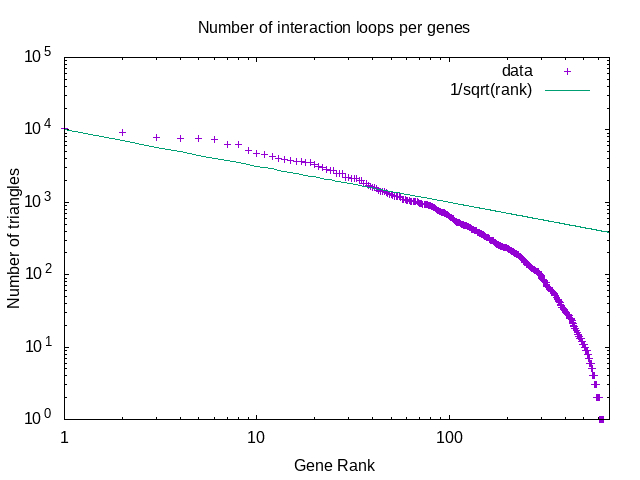
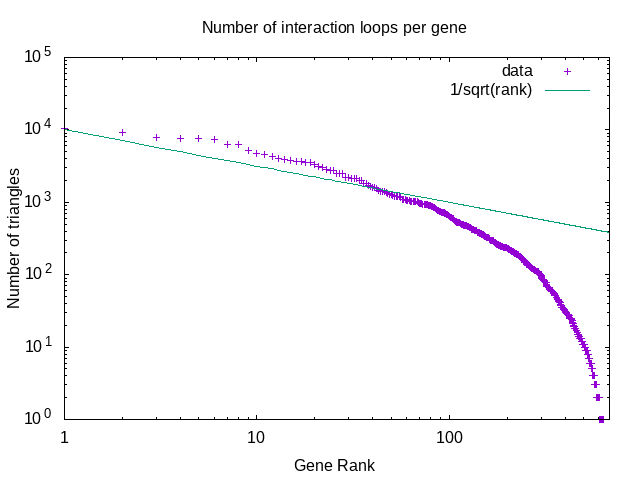
Calling these things "paths" was unfortunate

Changed region(s): [[0.3125, 0.0312, 0.75, 0.0938]]

diff --git a/query-loop/dataset-notes/README.md b/query-loop/dataset-notes/README.md
@@ -20,12 +20,13 @@ There are then two questions:
 
 These questions are answered below.
 
-===gene-paths.csv===
-The number of triangle shaped paths for each gene.  When plotted
-on a log-log graph, the distribution is clearly not Zipfian, except
-maybe at the very beginning. The eyeballed fit is 1/sqrt(rank).
+===gene-loops.csv===
+The number of triangle shaped interactions for each given gene.
+When plotted on a log-log graph, the distribution is clearly not
+Zipfian, except maybe at the very beginning. The eyeballed fit
+is 1/sqrt(rank).
 
-===path-participants.csv===
+===loop-participants.csv===
 A count of the number of times that a gene appered in a triangle.
 Perhaps its Zipfian initially, but certainly not at the tail end.
 As before, the eyeballed fit is 1/sqrt(rank).
@@ -33,5 +34,8 @@ As before, the eyeballed fit is 1/sqrt(rank).
 ==Remarks==
 The reason for the intial 1/sqrt(rank) is mysterious. Why this
 isn't true Zipfian is also unknown to me.  I was expecting something
-scale-free, and its not.  Is this just due to bad (incomplete)
-genetic interaction data, or is nature actually like this?
+scale-free, and its not.
+* Is it because the list of 681 genes to look at was hand-picked,
+  and not a random sampling?
+* Is this just due to bad (incomplete) genetic interaction data,
+  or is nature actually like this?
